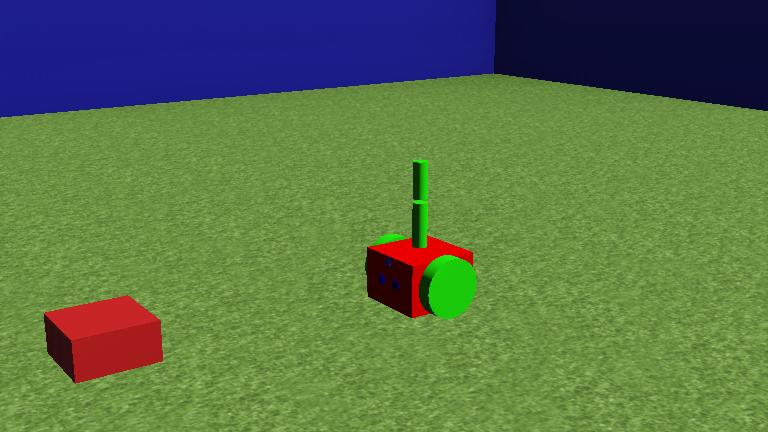
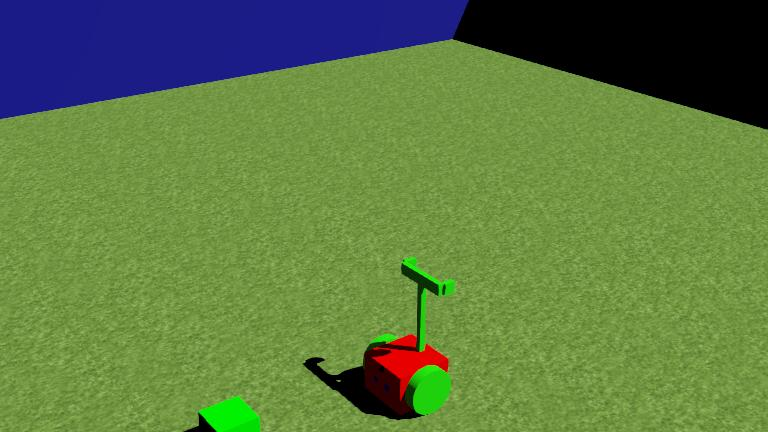
Agarre de objetivo agregago

diff --git a/controllers/4wheel_controller/4wheel_controller.py b/controllers/4wheel_controller/4wheel_controller.py
@@ -4,7 +4,7 @@ robot = Robot()
 TIME_STEP = int(robot.getBasicTimeStep())
 
 gps = robot.getDevice('gps')
-gps.enable(100)
+gps.enable(50)
 
 
 ds = []
@@ -26,14 +26,58 @@ for i in range(2):
 
 avoidObstacleCounter = 0
 
+brazo = []
+brazoNames = ['brazo', 'brazo_agarre']
+for i in range(2):
+    brazo.append(robot.getDevice(brazoNames[i]))
+    brazo[i].setPosition(float('inf'))
+    brazo[i].setVelocity(0.0)
 
-brazo = robot.getDevice('brazo')
-brazo.setPosition(float('inf'))
-brazo.setVelocity(0.0)
-brazoa = robot.getDevice('brazo_agarre')
-brazoa.setPosition(float('inf'))
-brazoa.setVelocity(0.0)
-
+def activarBrazo():
+    armSpeed = -1.0
+    for i in range(50):
+        robot.step(TIME_STEP)
+        brazo[0].setVelocity(armSpeed)
+        
+    brazo[0].setVelocity(0)
+    
+    for i in range(40):
+        robot.step(TIME_STEP)
+        brazo[1].setVelocity(armSpeed)
+        
+    brazo[1].setVelocity(0)
+    
+# Comportamiento: Llevar objetivo
+def llevarObjetivo():
+    #Primer paso: retroceder un poco
+    leftSpeed = -1.0
+    rightSpeed = -1.0
+    
+    for i in range (30):
+        robot.step(TIME_STEP)
+        wheels[0].setVelocity(leftSpeed)
+        wheels[1].setVelocity(rightSpeed)
+    
+    #Segundo paso: girar 180 grados
+    leftSpeed = 1.0
+    for i in range (170):
+        robot.step(TIME_STEP)
+        wheels[0].setVelocity(leftSpeed)
+        wheels[1].setVelocity(rightSpeed)
+    
+    #Tercer paso: retroceder un poco
+    leftSpeed = -1.0
+    for i in range (30):
+        robot.step(TIME_STEP)
+        wheels[0].setVelocity(leftSpeed)
+        wheels[1].setVelocity(rightSpeed)
+    
+    #Cuarto Paso: Frenar
+    wheels[0].setVelocity(0)
+    wheels[1].setVelocity(0)
+    #Quinto paso: agarrar el objetivo
+    activarBrazo()
+        
 # Comportamiento: Evitar obstaculos
 def avoidObstacle():
     # Detecta a que lado es conveniente rotar
@@ -77,8 +121,10 @@ def probarObjetivo():
     dif = (pos_inicial[0] - pos_actual[0])
     if dif < 0.01 and dif > -0.01:
         print("no se movio")
+        avoidObstacle()
     else:
         print("si se movio")
+        llevarObjetivo()
     
 def volverOrigen():
     pos = gps.getValues()
@@ -102,10 +148,12 @@ while robot.step(TIME_STEP) != -1:
     if ds[2].getValue() < 950.0:
         # Llamada a método que evita obstaculos
         avoidObstacle()
+    # Sensores de distancia detectan objetivo
     elif (valor_izq < 20) and (valor_der < 20):
         probarObjetivo()
     elif (valor_izq - valor_der) < 100 and (valor_izq - valor_der) > -100:
         pass
+    #Sensores de distancia detectan algo
     elif valor_izq < 950.0 or valor_der < 950.0:
         orientar()
     
